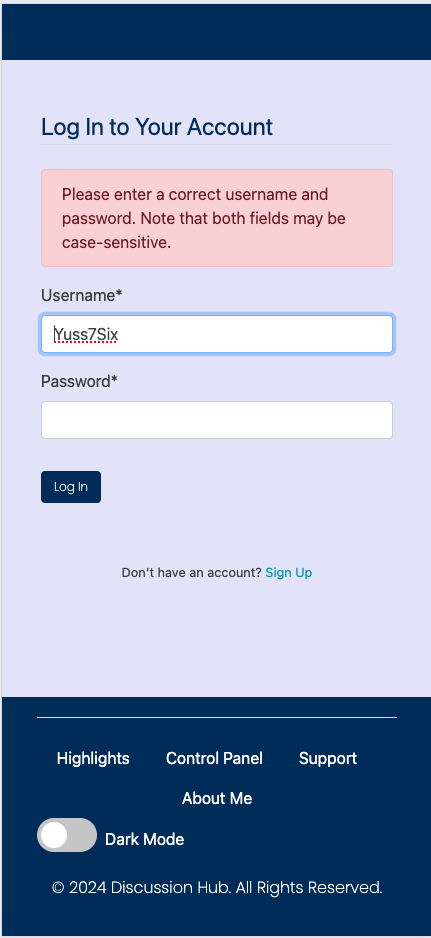
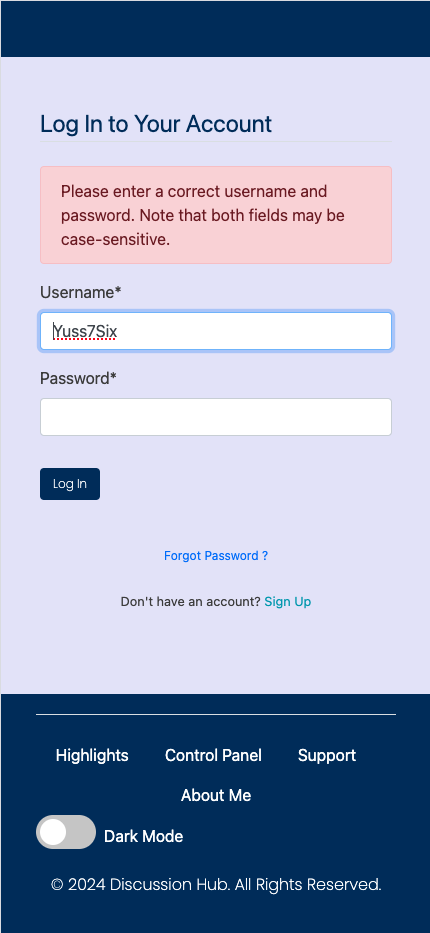
Modify login sections both for light and dark mode

diff --git a/users/templates/users/login.html b/users/templates/users/login.html
@@ -16,13 +16,14 @@
             <button class="btn btn-block" type="submit">Log In</button>
         </div>
     </form>
-    <div class="text-center">
-        <a href="{% url 'password_reset' %}" aria-label="Reset your password" target="_blank">Forgot Password?</a>
+    <div class="btn btn-block">
+        <a href="{% url 'password_reset' %}" aria-label="Reset your password" target="_blank">Forgot Password ?</a>
     </div>
     <div class="mt-3 text-center">
         <small class="text-switch">Don't have an account? <a href="{% url 'register' %}" class="text-info"
                 aria-label="Create a new account">Sign
-                Up</a></small>
+                Up</a>
+            </small>
     </div>
 </div>
 {% endblock content %}

diff --git a/README.md b/README.md
@@ -684,6 +684,8 @@ Password: A field for entering the password, also featuring a soft white design 
 
 * A prominent button labeled "Log In," styled in a blue that matches the navbar and footer, allowing users to submit their credentials and access their accounts seamlessly.
 
+* In light mode, we also have a "Forgot Password" button positioned before the "Don't have an account? Sign up" section. This button features a nice blue color that complements the overall website theme, ensuring it stands out while maintaining a cohesive design. This enhances user experience by providing easy access to the password recovery option.
+
 * Sign-Up Prompt: Below the login form, there's a friendly reminder for users who do not have an account, prompting them to "Sign Up" if they need to create a new one.
 
 * Error Messaging: Should the user enter incorrect login information, an error message will be displayed to alert them, stating, "Please enter a correct username and password." It's important to note that both fields may be case-sensitive, which means users must enter their credentials precisely.
@@ -1037,6 +1039,8 @@ The About Us page retains the same features as described previously, with a dark
 The Login Page in dark mode features a sleek design that enhances user experience. It includes input fields for username and password, both displayed in white to provide a strong contrast against the dark background, ensuring readability.
 
 The Log In button is styled with a green border, adding a visually appealing touch. Below the login fields, users who do not have an account can find a prompt to sign up, presented in a nice blue color for emphasis.
+
+Also, we have a "Forgot Password" button positioned prominently before the "Don't have an account? Sign up" section. This button is designed in a blue color, aligning with the dark mode theme and matching the title and links. This design choice enhances visibility and accessibility, allowing users to easily find the option for password recovery.
 
 A clean white line visually separates the footer from the login options. The footer is fixed at the bottom of the page and features a fixed design that matches the overall color theme. In the bottom left corner, there is a toggle for switching between dark and light modes, designed in blue to align with the overall color theme.
 
